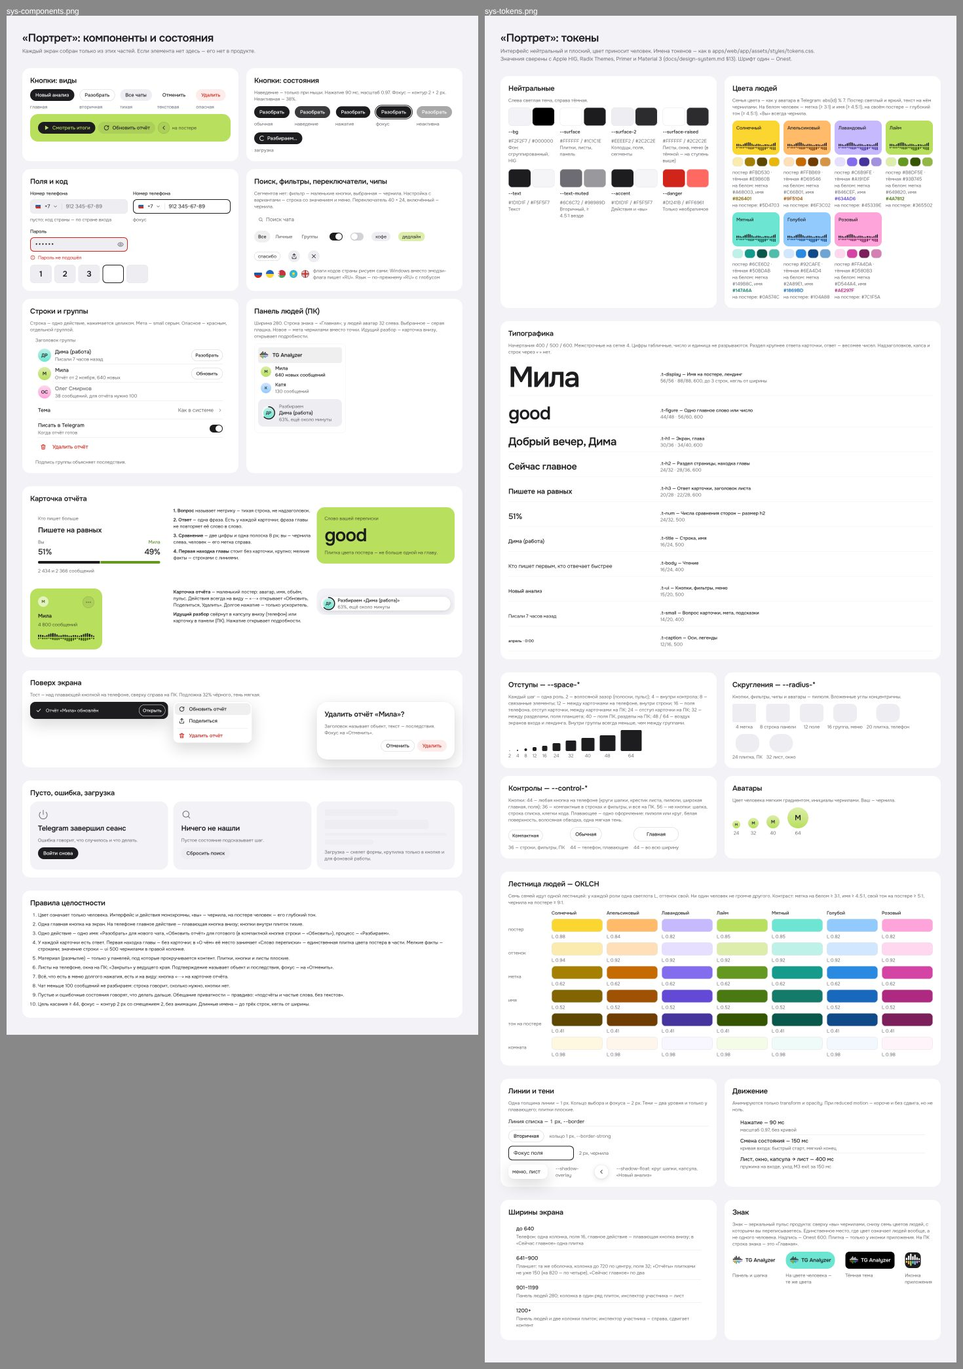
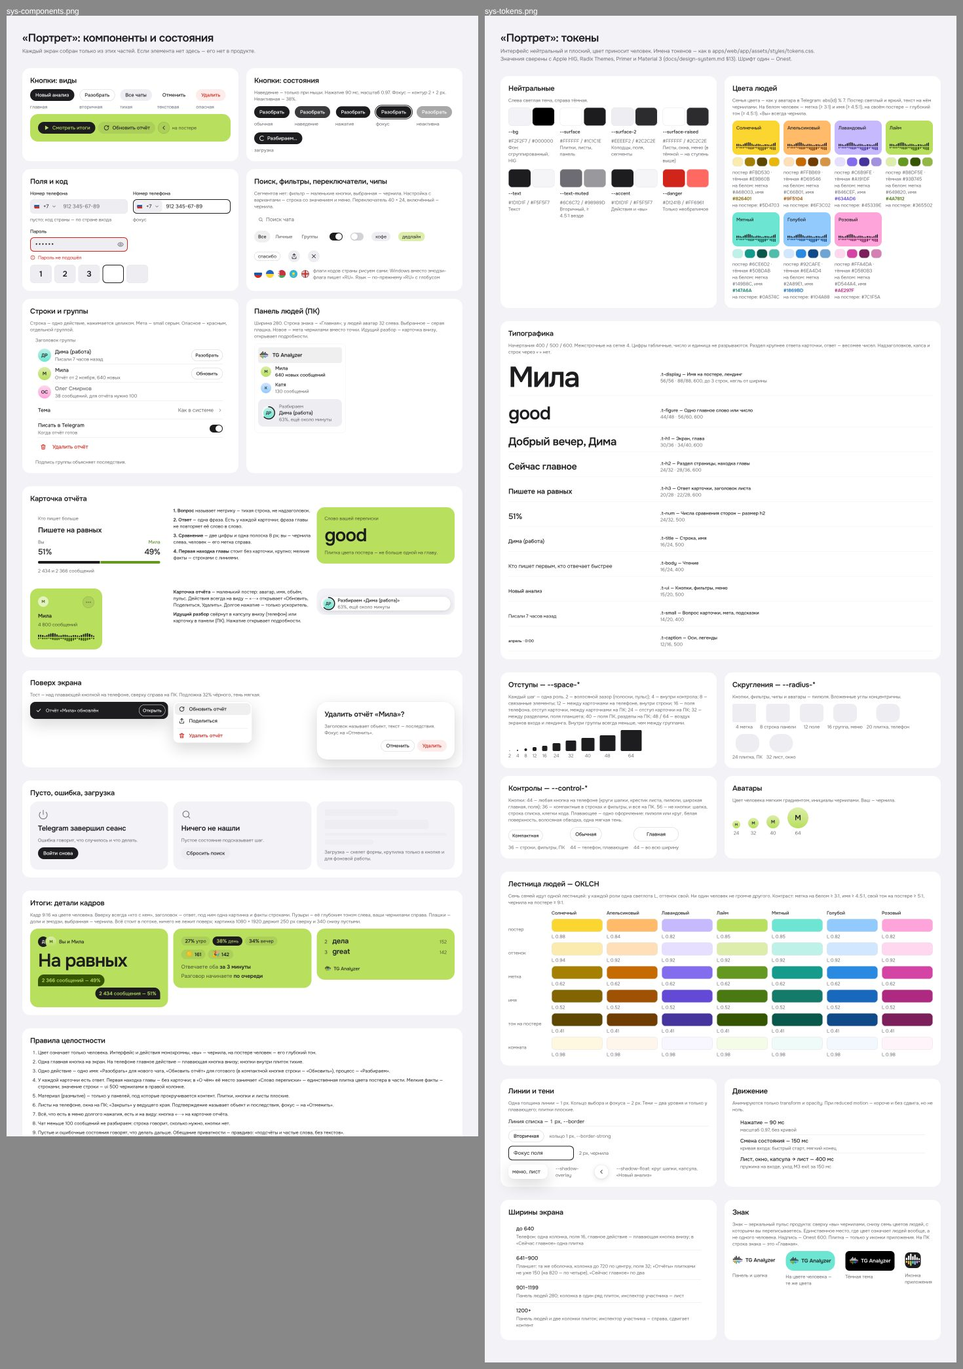
Mockups: dark contrast at 4.5:1, one header link style with full hit areas, stories parts in the system board
Claude-Session: https://claude.ai/code/session_0138LxsFKP5n8SxjtSAnZS23

Changed region(s): [[0.0, 0.6534, 0.5204, 0.8401], [0.8265, 0.9023, 0.9184, 0.9335]]

diff --git a/docs/design/portrait-v3/generator/system.py b/docs/design/portrait-v3/generator/system.py
@@ -61,7 +61,7 @@ CSS = r"""
   --opacity-disabled: 0.38; --press-scale: 0.97;
   --heat-0: #EEEEF2; --heat-1: #C7C7CC; --heat-2: #9C9CA3; --heat-3: #6C6C72; --heat-4: #3A3A3C;
   --chart-neutral: #C7C7CC; --chart-neutral-strong: #3A3A3C;
-  --avatar-on-poster: rgba(255,255,255,0.6); --story-hint: #98989D; --story-backdrop: #0B0B0C;
+  --avatar-on-poster: rgba(255,255,255,0.6); --story-hint: #AEAEB2; --story-backdrop: #0B0B0C;
   --poster: #E5E5EA; --room-tint: #EEEEF2; --them: #8E8E93; --them-ink: #6C6C72; --on-them: #3A3A3C; --room: var(--bg);
   --on-poster: #1D1D1F; --on-poster-muted: rgba(29,29,31,0.72); --on-poster-line: rgba(29,29,31,0.16);
   --on-poster-chip: rgba(29,29,31,0.08); --on-poster-faint: rgba(29,29,31,0.3);
@@ -90,6 +90,7 @@ CSS = r"""
   --radius-lg: 24px; --card-padding: 24px; --card-gap: 16px; --page-gutter: 40px; --page-gap: 40px;
 }
 [data-theme=dark] {
+  --on-poster-muted: rgba(29,29,31,0.82);
   --bg: #000000; --surface: #1C1C1E; --surface-2: #2C2C2E; --surface-raised: #2C2C2E; --fill-raised: #3A3A3C;
   --hover: rgba(235,235,245,0.06); --pressed: rgba(235,235,245,0.12); --sidebar-selection: #2C2C2E;
   --border: #38383A; --border-strong: #48484A;
@@ -292,6 +293,11 @@ CSS = r"""
 .podium i.first { background: var(--chart-neutral-strong); }
 .podium b { display: block; font: var(--text-small); color: var(--text-muted); margin-top: var(--space-1); font-weight: 400; }
 /* bars: the one place for material — only over scrolling content */
+.nav-link { display: inline-flex; align-items: center; min-height: var(--control-lg); font: var(--text-ui); color: var(--text-muted); }  /* text links in headers and footers: one look, a full hit area */
+.pc .nav-link { min-height: var(--control-md); }
+.brand-link { min-height: var(--control-lg); }
+.pc .brand-link { min-height: var(--control-md); }
+.poster .nav-link { color: var(--on-poster-muted); }
 .nav-ph { position: relative; display: flex; align-items: center; gap: var(--space-2); padding: var(--space-1) var(--page-gutter); min-height: var(--row); }
 .material { background: var(--bar-glass); -webkit-backdrop-filter: var(--glass-filter); backdrop-filter: var(--glass-filter); box-shadow: inset 0 -1px 0 var(--border); }
 .room .material { background: var(--room-glass); }
@@ -387,6 +393,9 @@ CSS = r"""
 .mini { position: relative; gap: var(--space-1); }
 .mini .top { display: flex; justify-content: space-between; align-items: flex-start; margin-bottom: var(--space-2); }
 .mini .name { font: 600 16px/24px var(--font-sans); }
+.mini .name::after { content: ''; position: absolute; inset: 0; border-radius: inherit; }  /* the whole card opens the report */
+.mini .icon-btn { position: relative; z-index: 1; }
+.hit::after { content: ''; position: absolute; inset: -2px; }  /* the bare mark keeps a 44 hit area */
 .icon-btn.sm.on-poster { width: var(--control-sm); height: var(--control-sm); }
 /* live progress: minimised to a capsule (phone dock) or a card (sidebar); opens the details */
 .ring { position: relative; flex: none; display: inline-flex; align-items: center; justify-content: center; }
@@ -496,7 +505,7 @@ CSS = r"""
 .story.still .story-body { gap: var(--space-3); padding-top: 0; }
 .story.still .st-lines { gap: 0; }
 .story-mark { display: flex; align-items: center; justify-content: center; gap: var(--space-2); font: var(--text-small-strong); padding-top: var(--space-4); }
-.safe-zone { position: absolute; left: 0; right: 0; border: 1px dashed var(--on-poster-faint); background: var(--on-poster-chip); display: flex; align-items: center; justify-content: center; font: var(--text-caption); color: var(--on-poster-muted); }
+.safe-zone { position: absolute; left: 0; right: 0; border: 1px dashed var(--on-poster-faint); background: var(--on-poster-chip); display: flex; align-items: center; justify-content: center; font: var(--text-caption); color: var(--on-poster); }
 /* Controls that float over content — header circles, sheet close, the bottom pill, the progress capsule, «+» — are one family:
    44 on the phone, pill or circle, raised surface, hairline ring, one soft shadow. On a poster the same shape, translucent. */
 .ph .icon-btn { width: var(--control-lg); height: var(--control-lg); }

diff --git a/docs/design/portrait-v3/generator/systemboards.py b/docs/design/portrait-v3/generator/systemboards.py
@@ -2,7 +2,7 @@
 import re
 from kit import *
 from system import HUES, CSS
-from phone import phone_field
+from phone import phone_field, who, msg
 
 HUE_NAMES = {'yellow': 'Солнечный', 'orange': 'Апельсиновый', 'violet': 'Лавандовый', 'green': 'Лайм', 'teal': 'Мятный', 'blue': 'Голубой', 'pink': 'Розовый'}
 
@@ -137,6 +137,14 @@ def S_components():
         'Чат меньше 100 сообщений не разбираем: строка говорит, сколько нужно, кнопки нет.',
         'Пустые и ошибочные состояния говорят, что делать дальше. Обещание приватности — правдиво: «подсчёты и частые слова, без текстов».',
         'Цель касания ≥ 44, фокус — контур 2 px со смещением 2, без анимации. Длинные имена — до трёх строк, кегль от ширины.'])
+    stories_parts = (f'<div class="grid-3" style="gap:var(--space-4);align-items:start">'
+                     f'<div class="tile poster story stack gap-3" data-hue="green">{who()}<p class="t-figure">На равных</p><div class="st-chat">'
+                     + msg('<b>2 366</b> сообщений — <b>49%</b>', 'them') + msg('<b>2 434</b> сообщения — <b>51%</b>', 'you') + '</div></div>'
+                     f'<div class="tile poster story stack gap-3" data-hue="green"><div class="st-parts"><span><b>27%</b> утро</span><span class="on"><b>38%</b> день</span><span><b>34%</b> вечер</span></div>'
+                     f'<div class="st-parts emo"><span><i>☀</i><b>161</b></span><span><i>🎉</i><b>142</b></span></div>'
+                     f'<div class="st-lines"><p>Отвечаете оба <b>за 3 минуты</b></p><p>Разговор начинаете <b>по очереди</b></p></div></div>'
+                     f'<div class="tile poster story stack gap-3" data-hue="green"><ol class="st-top" start="2"><li><span class="n">2</span><b>дела</b><span class="c">152</span></li><li><span class="n">3</span><b>great</b><span class="c">142</span></li></ol>'
+                     f'<div class="story-mark" style="justify-content:flex-start">{logo(20, bare=True)}<span>TG Analyzer</span></div></div></div>')
     body = f'''<main class="page" style="padding:var(--space-12)">
   {head('«Портрет»: компоненты и состояния', 'Каждый экран собран только из этих частей. Если элемента нет здесь — его нет в продукте.')}
   <div class="grid-2" style="gap:var(--space-6)">
@@ -150,9 +158,10 @@ def S_components():
   {blk('Карточка отчёта', anatomy)}
   {blk('Поверх экрана', overlays, 'Тост — над плавающей кнопкой на телефоне, сверху справа на ПК. Подложка 32% чёрного, тень мягкая.')}
   {blk('Пусто, ошибка, загрузка', empt)}
+  {blk('Итоги: детали кадров', stories_parts, 'Кадр 9:16 на цвете человека. Вверху всегда «кто с кем», заголовок — ответ, под ним одна картинка и факты строками. Пузыри — её глубоким тоном слева, ваши чернилами справа. Плашки — доли и эмодзи, выбранная — чернила. Всё стоит в потоке, ничего не лежит поверх; картинка 1080 × 1920 держит 250 px сверху и 340 снизу пустыми.')}
   {blk('Правила целостности', f'<ol style="margin:0;padding-left:var(--space-6)">{rules}</ol>')}
 </main>'''
-    return page('Система — компоненты', body, pc=True, h=3110)
+    return page('Система — компоненты', body, pc=True, h=3420)
 
 
 SCREENS = [('sys-tokens', 'Система — токены', S_tokens), ('sys-components', 'Система — компоненты и состояния', S_components)]

diff --git a/docs/design/portrait-v3/generator/phone.py b/docs/design/portrait-v3/generator/phone.py
@@ -438,7 +438,7 @@ PRIVACY_NOTE = 'В отчёте только подсчёты и частые с
 
 def S_guest():
     poster = f'''<section class="poster stack gap-3" style="padding:var(--space-2) var(--page-gutter) var(--space-6)">
-  <div class="row-f between" style="min-height:var(--control-lg)">{logo(28, word=True)}<a href="#" class="t-small muted">Приватность</a></div>
+  <div class="row-f between" style="min-height:var(--control-lg)">{logo(28, word=True)}<a href="#" class="nav-link">Приватность</a></div>
   <div class="stack gap-2 poster-name" style="margin-top:var(--space-6)"><h1 class="t-display">Дима и Мила</h1><p class="t-small muted">Дима поделился с вами отчётом о переписке: 4 800 сообщений с 9 апреля.</p></div>
   {pulse(56, 24, 1.0)}
 </section>'''
@@ -457,7 +457,7 @@ def quiz_shell(content, step=None):
 
 
 def S_quiz_start():
-    c = f'''<div class="row-f between">{logo(28, word=True)}<a href="#" class="t-small muted">Приватность</a></div>
+    c = f'''<div class="row-f between">{logo(28, word=True)}<a href="#" class="nav-link">Приватность</a></div>
   <div class="stack gap-4 grow" style="justify-content:center">{pulse(40, 40, 1.0)}
   <h1 class="t-figure">Дима позвал вас в угадайку</h1>
   <p class="t-body muted">Пять вопросов о вашей переписке: кто дольше записывает голосовые, кто желает спокойной ночи, чьё это слово.</p></div>
@@ -488,7 +488,7 @@ def S_quiz_end():
 
 
 def S_link_off():
-    body = f'''<header class="nav-ph between">{logo(28, word=True)}<a href="#" class="t-small muted">Приватность</a></header>
+    body = f'''<header class="nav-ph between">{logo(28, word=True)}<a href="#" class="nav-link">Приватность</a></header>
   <main class="stack gap-3" style="padding:0 var(--page-gutter) var(--space-16);flex:1;justify-content:center">
   <h1 class="t-h1">Ссылка больше не работает</h1>
   <p class="t-body muted">Автор выключил её или удалил отчёт. Попросите прислать новую.</p>
@@ -548,7 +548,7 @@ def letters():
 
 
 def login(content):
-    nav = f'<header class="nav-ph">{ibtn("back", "Назад")}<div class="grow"></div><a href="#" class="t-ui muted" style="padding:var(--space-2)">Приватность</a></header>'
+    nav = f'<header class="nav-ph">{ibtn("back", "Назад")}<div class="grow"></div><a href="#" class="nav-link">Приватность</a></header>'
     return f'<div class="stack" style="height:100%;background:var(--surface)">{nav}<main class="stack" style="padding:var(--space-6) var(--page-gutter)">{content}</main></div>'
 
 
@@ -602,7 +602,7 @@ def S_landing():
   <p class="t-body muted">Кто пишет первым, кто отвечает быстрее, о чём вы говорите и когда. Отчёт по любому чату Telegram за пару минут — без хранения текстов.</p>
   <div class="cards" aria-label="Примеры" style="margin-top:var(--space-3)">{person('mila', 'Пишете на равных', 'Мила, 51 на 49', 1)}{person('artyom', 'Отвечает быстрее вас', 'Артём, в 3 раза', 2)}</div>
 </main>'''
-    nav = f'<header class="nav-ph between">{logo(28, word=True)}<a href="#" class="t-ui">Войти</a></header>'
+    nav = f'<header class="nav-ph between">{logo(28, word=True)}<a href="#" class="nav-link" style="color:var(--text)">Войти</a></header>'
     bar = f'<div class="stack gap-2" style="position:absolute;left:0;right:0;bottom:0;padding:var(--space-3) var(--page-gutter) var(--safe-bottom);background:var(--bg)">{btn("Войти через Telegram", "primary", "xl block", tag="a")}{btn("Посмотреть пример отчёта", "plain", "block", tag="a")}</div>'
     return page('Лендинг', nav + hero_ + bar)
 

diff --git a/docs/design/portrait-v3/generator/desktop.py b/docs/design/portrait-v3/generator/desktop.py
@@ -213,7 +213,7 @@ def D_account():
 
 def pub_header(nav=True):
     """Header of every public desktop page: logo on the column edge, site links on the right."""
-    links = (f'<nav class="row-f gap-8 t-ui" aria-label="Сайт"><a href="#" class="muted">Пример отчёта</a><a href="#" class="muted">Приватность</a>'
+    links = (f'<nav class="row-f gap-8 t-ui" aria-label="Сайт"><a href="#" class="nav-link">Пример отчёта</a><a href="#" class="nav-link">Приватность</a>'
              f'{btn("Войти", "secondary", "md", tag="a")}</nav>') if nav else ''
     return f'<header class="row-f between" style="padding:var(--space-6) var(--page-gutter);width:100%;max-width:var(--page-max);margin:0 auto">{logo(32, word=True)}{links}</header>'
 
@@ -221,7 +221,7 @@ def pub_header(nav=True):
 def pub_footer():
     return (f'<footer class="row-f between t-small muted" style="padding:var(--space-6) var(--page-gutter);width:100%;max-width:var(--page-max);margin:0 auto">'
             f'<span>Неофициальный сервис, работает через Telegram API</span>'
-            f'<span class="row-f gap-4"><a href="#">Приватность</a><a href="#" class="row-f gap-2" aria-label="Язык: русский">{ic("globe")}RU</a>'
+            f'<span class="row-f gap-4"><a href="#" class="nav-link">Приватность</a><a href="#" class="nav-link gap-2" aria-label="Язык: русский">{ic("globe")}RU</a>'
             f'<button class="icon-btn sm" style="background:none;color:var(--text-muted)" aria-label="Тема: как в системе">{ic("moon")}</button></span></footer>')
 
 
@@ -255,7 +255,7 @@ def D_landing():
 
 def D_guest():
     poster = f'''<section class="poster stack gap-3" style="padding:var(--space-6) max(var(--page-gutter), calc((100% - var(--page-max)) / 2 + var(--page-gutter))) var(--space-8)">
-  <div class="row-f between">{logo(32, word=True)}<a href="#" class="t-ui">Приватность</a></div>
+  <div class="row-f between">{logo(32, word=True)}<a href="#" class="nav-link">Приватность</a></div>
   <div class="poster-name" style="margin-top:var(--space-10)"><h1 class="t-display">Дима и Мила</h1></div>
   <p class="t-body muted">Дима поделился с вами отчётом о переписке: 4 800 сообщений с 9 апреля 2026.</p>
   <div style="margin-top:var(--space-4)">{pulse(150, 32, 1.0)}</div><div class="axis"><span>апрель 2026</span><span>ноябрь 2026</span></div></section>'''

diff --git a/docs/design/portrait-v3/generator/extra.py b/docs/design/portrait-v3/generator/extra.py
@@ -103,7 +103,7 @@ def S_faq():
 
 
 def S_404():
-    body = f'''<header class="nav-ph between">{logo(28, word=True)}<a href="#" class="t-small muted">Приватность</a></header>
+    body = f'''<header class="nav-ph between">{logo(28, word=True)}<a href="#" class="nav-link">Приватность</a></header>
   <main class="stack gap-3" style="padding:0 var(--page-gutter) var(--space-16);flex:1;justify-content:center">
   <h1 class="t-h1">Такой страницы нет</h1>
   <p class="t-body muted">Возможно, ссылка устарела или в ней опечатка.</p>

diff --git a/docs/design/portrait-v3/generator/kit.py b/docs/design/portrait-v3/generator/kit.py
@@ -67,7 +67,7 @@ def logo(size=32, word=False, tile=False, bare=False):
         return mark
     if not word:
         return f'<a href="#" class="hit" aria-label="TG Analyzer, главная" style="display:inline-flex;position:relative">{mark}</a>'
-    return f'<a href="#" class="row-f gap-2 wordmark" aria-label="TG Analyzer, главная">{mark}TG Analyzer</a>'
+    return f'<a href="#" class="row-f gap-2 wordmark brand-link" aria-label="TG Analyzer, главная">{mark}TG Analyzer</a>'
 
 
 _FLAGS = {

diff --git a/docs/design/portrait-v3/README.md b/docs/design/portrait-v3/README.md
@@ -72,6 +72,19 @@
 | 22    | Коды стран, порог сообщений                                | Россия, Украина, Беларусь и Казахстан — первыми, с флагами, страна подставляется сама. Чат меньше 100 сообщений разобрать нельзя. Сделано и в коде, см. ниже                                                          |
 | 23    | Меню отчёта на телефоне                                    | «⋯» на каждой карточке отчёта открывает лист «Обновить, Поделиться, Удалить». Долгое нажатие осталось как ускоритель                                                                                                  |
 
+## Раунд 7: сквозная проверка (09.11)
+
+Скрипт прошёл все 71 доску: контраст, цели касания, сетка отступов, кегли.
+
+- **Тёмная тема:** серый текст на постерах и плитках был 3,75–4,2:1 — `--on-poster-muted` в тёмной теме поднят до 0,82, теперь ≥ 4,5:1.
+- **Ссылки в шапках и подвалах** — один класс `nav-link` (кегль ui, серый, область нажатия 44 на телефоне, 36 на ПК). Раньше «Приватность» была то 14, то 15 px, с областью 20 px.
+- **Знак со словом** — область нажатия 44; значок без слова — невидимый запас до 44.
+- **Карточка отчёта нажимается целиком** (растянутая ссылка), «⋯» поверх неё.
+- **Подсказка «Итогов» на ПК** — светлее, читается на тёмной подложке.
+- **Доска компонентов** — новый блок «Итоги: детали кадров»: «кто с кем», пузыри, плашки долей и эмодзи, строки фактов, топ-список, знак на картинке.
+
+Что осталось вне макетов: картинка `sheets/ladder-compare.png` показывает старую палитру с коралловым; правила в `docs/design-system.md` и `CLAUDE.md` описывают код, а не v3 — обновляются при переносе.
+
 ## Раунд 6: «Итоги» для сторис (09.11)
 
 У каждого кадра свой приём (по мотивам Spotify Wrapped, Strava, Duolingo). Общее — цвет человека, Onest, чернила для «вас» и строка «кто с кем» вверху (аватары и «Вы и Мила», в группе — название): кадр понятен, даже если его выложили отдельно. Всё стоит в потоке — ничего не лежит поверх соседнего. Факты — строки в одну строку, без линий и колонок. Все кадры стоят на одной верхней линии (64 px под шапкой): «кто с кем» и заголовок-ответ на одной высоте, заголовок и подзаголовок через 8.

diff --git a/docs/ROADMAP.md b/docs/ROADMAP.md
@@ -6,6 +6,11 @@
 
 ## ✅ Сделано
 
+### 2026-11-09 — «Портрет» v3: сквозная проверка всех досок
+
+- Контраст тёмной темы ≥ 4,5:1, ссылки в шапках — один `nav-link` с областью 44, карточка отчёта нажимается целиком, детали «Итогов» на доске компонентов.
+- 🔜 Перерисовать `sheets/ladder-compare.png` без кораллового; при переносе обновить `docs/design-system.md`.
+
 ### 2026-11-09 — «Портрет» v3: «Итоги» под сторис
 
 - Четыре кадра — четыре приёма: пульс (обложка), переписка пузырями (Вы двое), циферблат (Время), топ-5 с наклейкой (О чём); группа — «фото класса».
